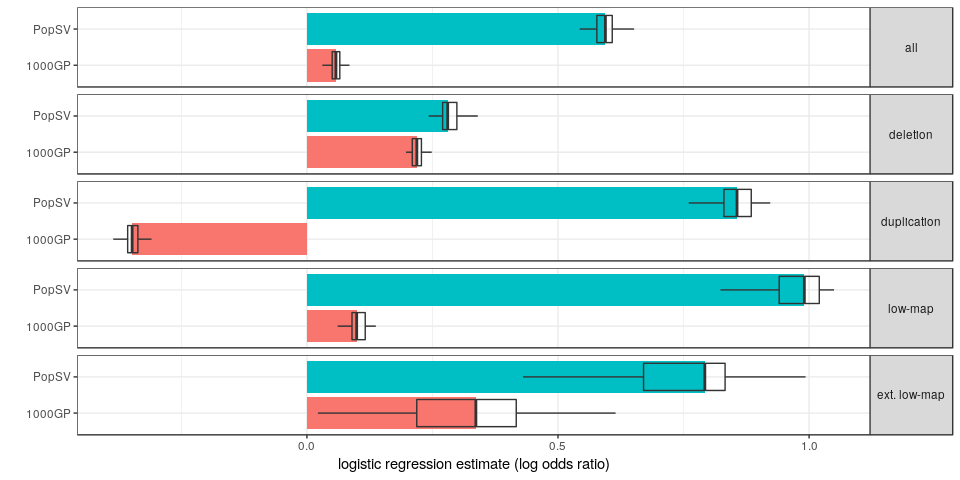
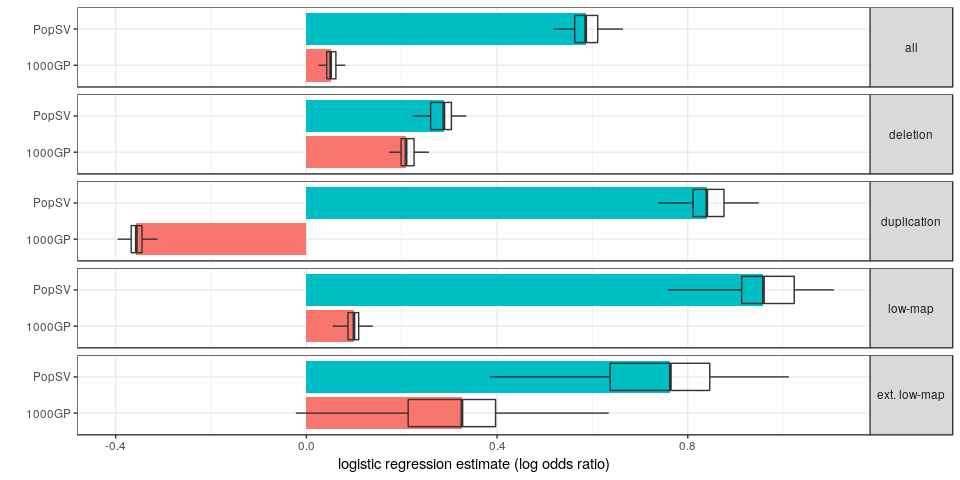
debug

diff --git a/reports/PopSV-catalog-overview.md b/reports/PopSV-catalog-overview.md
@@ -204,11 +204,12 @@ cumfreq.popsv.tgp = rbind(data.frame(set = "PopSV", cnv.dd), data.frame(set = "1
     tgp.dd)) %>% group_by(set, type) %>% arrange(desc(prop)) %>% mutate(prop.gen = kb/sum(kb), 
     cumprop = cumsum(prop.gen))
 
-ggplot(cumfreq.popsv.tgp, aes(x = prop, y = cumprop, colour = type, linetype = set)) + 
-    geom_line(alpha = 0.9, size = 2) + theme_bw() + ylim(0, 1) + xlab("frequency") + 
-    ylab("cumulative proportion") + theme(legend.position = c(0.99, 0.99), legend.justification = c(1, 
-    1)) + scale_colour_brewer(name = "", palette = "Set1") + scale_x_log10(breaks = c(0.002, 
-    0.005, 0.01, 0.02, 0.05, 0.1, 0.2, 0.5))
+cumfreq.popsv.tgp %>% filter(!is.na(type)) %>% ggplot(aes(x = prop, y = cumprop, 
+    colour = type, linetype = set)) + geom_line(alpha = 0.9, size = 2) + theme_bw() + 
+    ylim(0, 1) + xlab("frequency") + ylab("cumulative proportion") + theme(legend.position = c(0.99, 
+    0.99), legend.justification = c(1, 1)) + scale_colour_brewer(name = "", 
+    palette = "Set1") + scale_x_log10(breaks = c(0.002, 0.005, 0.01, 0.02, 0.05, 
+    0.1, 0.2, 0.5))
 ```
 
 ![](PopSV-catalog-overview_files/figure-markdown_github/freq-1.png)
@@ -291,16 +292,16 @@ chaisson.enr.s %>% kable
 
 | region       | catalog |    estimate|
 |:-------------|:--------|-----------:|
-| all          | 1000GP  |   0.0442356|
-| all          | PopSV   |   0.5478336|
-| deletion     | 1000GP  |   0.1980867|
-| deletion     | PopSV   |   0.2283583|
-| duplication  | 1000GP  |  -0.2905387|
-| duplication  | PopSV   |   0.8111299|
-| low-map      | 1000GP  |  -0.0015105|
-| low-map      | PopSV   |   0.7166357|
-| ext. low-map | 1000GP  |  -0.1971681|
-| ext. low-map | PopSV   |   0.0231800|
+| all          | 1000GP  |   0.0501773|
+| all          | PopSV   |   0.5473347|
+| deletion     | 1000GP  |   0.2044217|
+| deletion     | PopSV   |   0.2254512|
+| duplication  | 1000GP  |  -0.2842049|
+| duplication  | PopSV   |   0.8118134|
+| low-map      | 1000GP  |  -0.0052839|
+| low-map      | PopSV   |   0.7208925|
+| ext. low-map | 1000GP  |  -0.1574896|
+| ext. low-map | PopSV   |   0.0428174|
 
 ### Pendleton et al
 
@@ -341,16 +342,16 @@ pend.enr.s %>% kable
 
 | region       | catalog |    estimate|
 |:-------------|:--------|-----------:|
-| all          | 1000GP  |   0.0578390|
-| all          | PopSV   |   0.5944038|
-| deletion     | 1000GP  |   0.2189456|
-| deletion     | PopSV   |   0.2803774|
-| duplication  | 1000GP  |  -0.3480136|
-| duplication  | PopSV   |   0.8564898|
-| low-map      | 1000GP  |   0.0991162|
-| low-map      | PopSV   |   0.9905412|
-| ext. low-map | 1000GP  |   0.3364722|
-| ext. low-map | PopSV   |   0.7923829|
+| all          | 1000GP  |   0.0509233|
+| all          | PopSV   |   0.5859097|
+| deletion     | 1000GP  |   0.2091368|
+| deletion     | PopSV   |   0.2884370|
+| duplication  | 1000GP  |  -0.3567204|
+| duplication  | PopSV   |   0.8399120|
+| low-map      | 1000GP  |   0.0998471|
+| low-map      | PopSV   |   0.9587520|
+| ext. low-map | 1000GP  |   0.3263347|
+| ext. low-map | PopSV   |   0.7635417|
 
 Novel CNV regions
 -----------------
